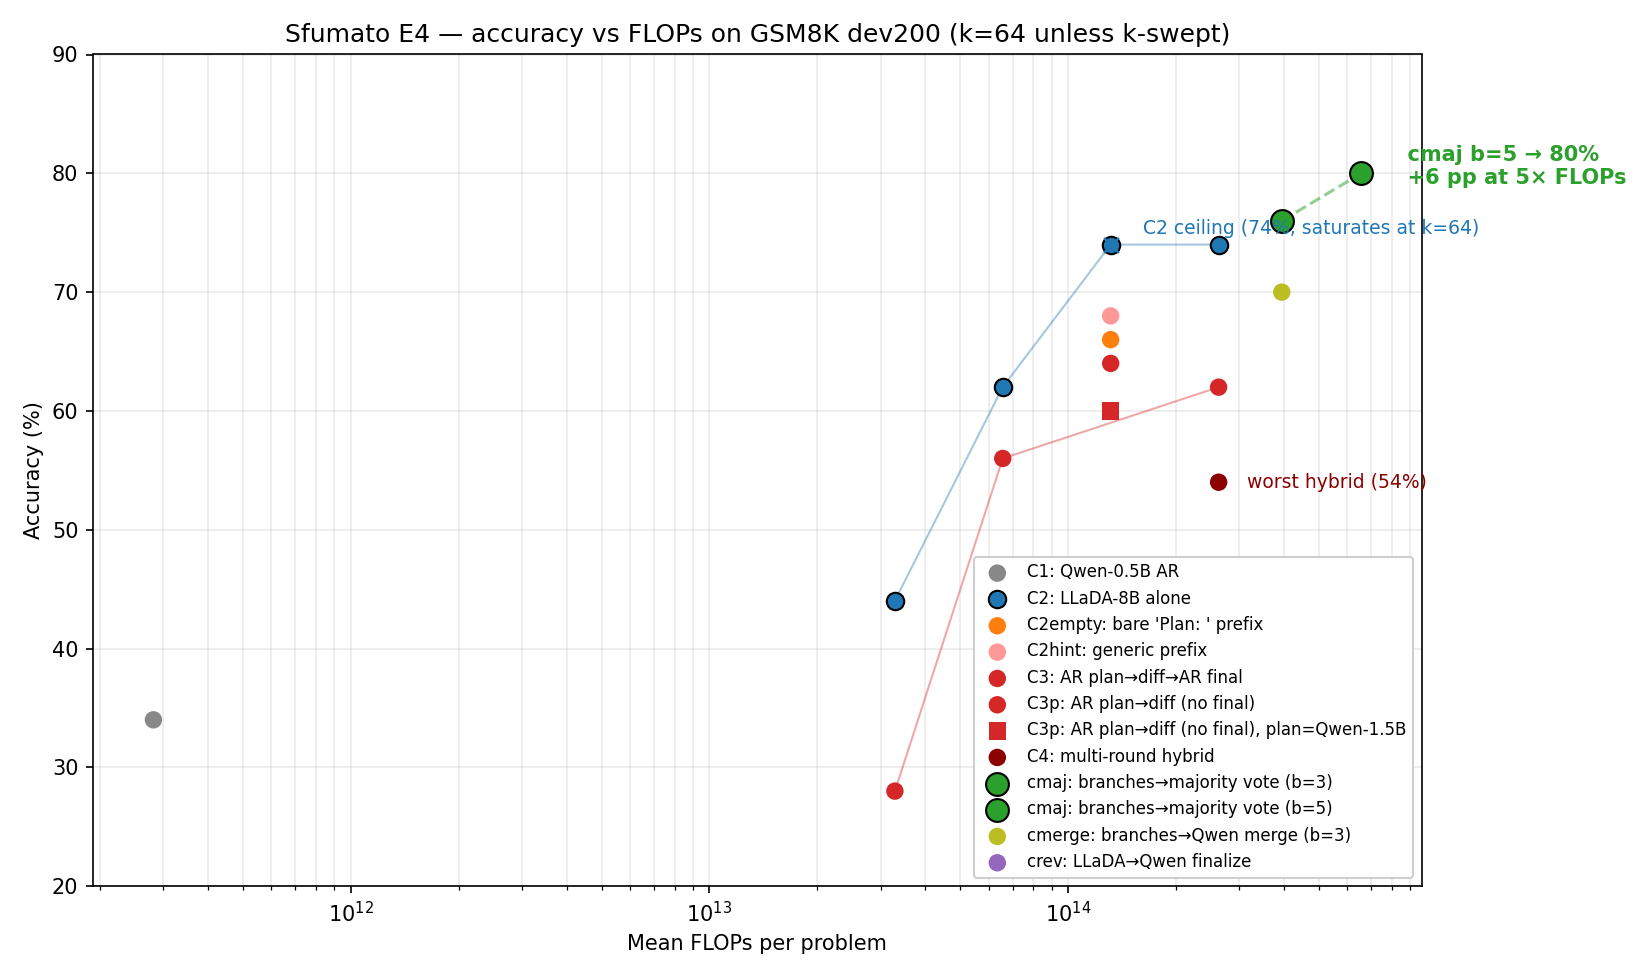
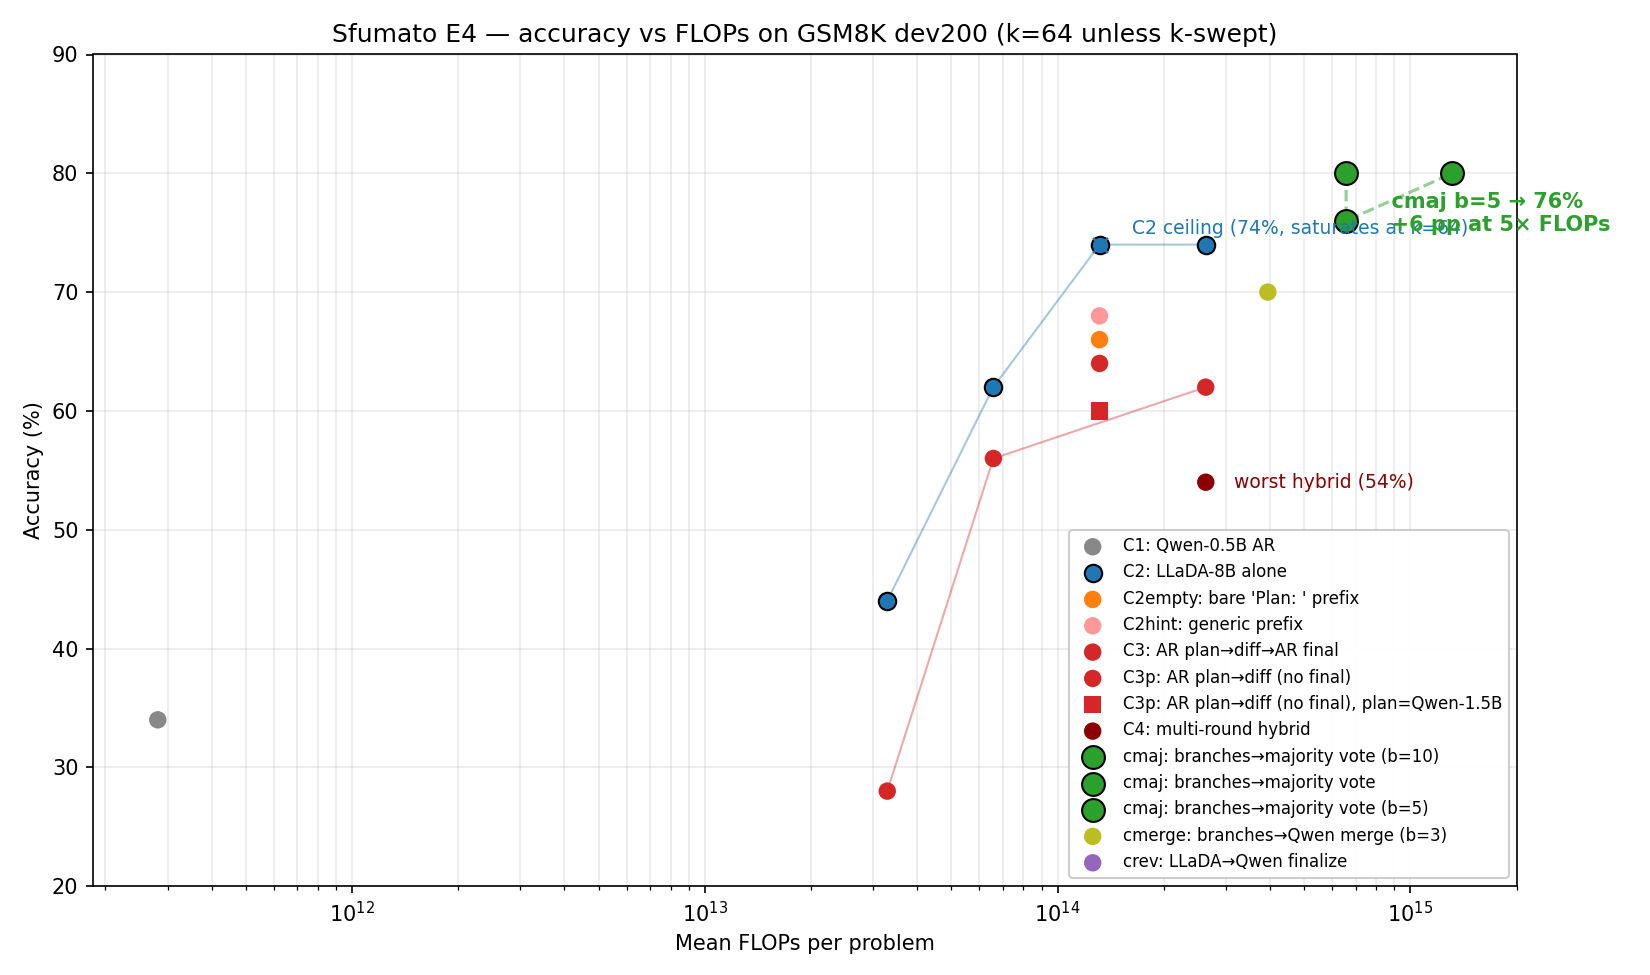
Round-2 sweep complete: temperature curve + b=10 plateau
cmaj results @ k=64, N=50:
  b=3, t=0.7: 76% (3.94e14)  +2pp
  b=5, t=0.3: 78% (6.57e14)  +4pp
  b=5, t=0.7: 80% (6.57e14)  +6pp  <- sweet spot (peak temp)
  b=5, t=1.0: 76% (6.57e14)  +2pp  (too noisy)
  b=10, t=0.7: 80% (1.31e15) +6pp  <- plateau (no gain past b=5)

Two clean curves:
- temperature peak at 0.7 (under-/over-cooked both lose)
- branches saturate at b=5 (b=10 gives 0pp at 2x compute)

The +6pp ceiling on this dev set is firm.

- backfill_wandb.py: include temperature in cell_key so b=5 t=0.3 / 0.7 /
  1.0 become separate wandb runs (was previously conflated).
- Tagged temperature on all cmaj/cmerge jsonl rows for retroactive consistency.

27 unique runs in wandb sfumato-e4. Updated SpiderChat
"Sfumato — Branch-then-converge inverse hybrid" with both curves.

diff --git a/scripts/backfill_wandb.py b/scripts/backfill_wandb.py
@@ -41,6 +41,7 @@ def cell_key(row: dict[str, Any]) -> tuple:
         row.get("diff_model", "unknown_diff"),
         row.get("seed", 0),
         row.get("branches", 1),
+        round(float(row.get("temperature", 0.0)), 2),
     )
 
 
@@ -53,10 +54,11 @@ def upload_cell(
 ) -> None:
     import wandb  # type: ignore
 
-    cond, k, ar, diff, seed, branches = cell
+    cond, k, ar, diff, seed, branches, temp = cell
     branches_suffix = f"-b{branches}" if branches > 1 else ""
+    temp_suffix = f"-t{temp}" if temp and branches > 1 else ""
     name = (
-        f"{cond}-k{k}-seed{seed}{branches_suffix}"
+        f"{cond}-k{k}-seed{seed}{branches_suffix}{temp_suffix}"
         f"-{ar.split('/')[-1] if '/' in ar else ar}"
     )
     cfg = {
